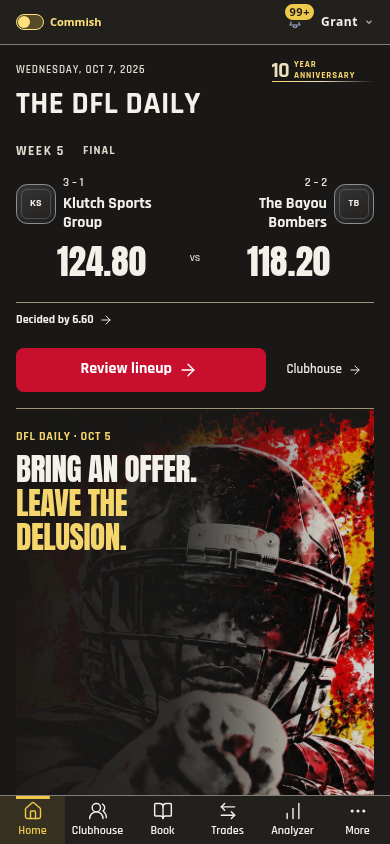
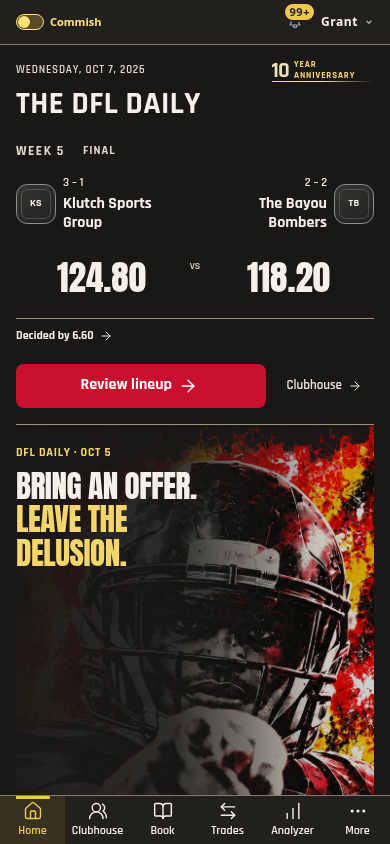
Keep score-update badges clear of Home totals

diff --git a/css/app-shared.css b/css/app-shared.css
@@ -3515,6 +3515,8 @@ html[data-archive-transition] {view-transition-name:none;}
 #home-wrap .home-team-total { position: relative; width: 100%; justify-self: stretch; grid-template-columns: minmax(0,1fr); }
 #home-wrap .home-team-total > small { grid-column: 1; grid-row: 1; }
 #home-wrap .home-team-total > :is(.gd-thermal-number,.home-projected-total) { grid-column: 1; grid-row: 2; }
+/* Keep a stable feedback lane when repeated status labels are visually hidden. */
+#home-wrap .gameday-matchup:not(.is-projected) .home-team-total { padding-top:16px; }
 #home-wrap .home-team-total > .gd-score-delta { top: -4px; bottom: auto; right: 0; font: 600 12px/1 var(--home-ui-font); }
 #home-wrap .home-game-phase[data-phase="live"]::before,
 .clubhouse-matchup-state[data-state="live"]::before {

diff --git a/css/matchup-interactions.css b/css/matchup-interactions.css
@@ -13,6 +13,8 @@
 #home-wrap .home-team-total { position: relative; width: 100%; justify-self: stretch; grid-template-columns: minmax(0,1fr); }
 #home-wrap .home-team-total > small { grid-column: 1; grid-row: 1; }
 #home-wrap .home-team-total > :is(.gd-thermal-number,.home-projected-total) { grid-column: 1; grid-row: 2; }
+/* Keep a stable feedback lane when repeated status labels are visually hidden. */
+#home-wrap .gameday-matchup:not(.is-projected) .home-team-total { padding-top:16px; }
 #home-wrap .home-team-total > .gd-score-delta { top: -4px; bottom: auto; right: 0; font: 600 12px/1 var(--home-ui-font); }
 #home-wrap .home-game-phase[data-phase="live"]::before,
 .clubhouse-matchup-state[data-state="live"]::before {

diff --git a/theme-audit.md b/theme-audit.md
@@ -615,7 +615,9 @@ Dark (`docs/home-trade-polish/`). Home now uses The DFL Daily for its masthead
 and loading announcement, leaving Clubhouse as the matchup destination. Actual
 and Final score labels remain available to accessibility and the scrolling
 scoreboard, without repeating visibly under each team. Projected labels remain
-visible. Existing type, score colors and navigation tokens are preserved.
+visible. A reserved feedback lane keeps score-change badges above the totals
+without moving the score when an update arrives. Existing type, score colors
+and navigation tokens are preserved.
 
 Trade opens with extra setup collapsed and both player pickers visible. Its
 compact player targeting row uses shared border, surface and text tokens; the

diff --git a/docs/home-trade-polish.md b/docs/home-trade-polish.md
@@ -3,7 +3,9 @@
 Home has a distinct masthead, The DFL Daily, including its loading announcement.
 Clubhouse retains its own route name. Per-team Actual/Final labels are visually
 hidden while score semantics, phase status and the collapsing scoreboard remain
-intact. Upcoming projections keep their visible Projected label.
+intact. Upcoming projections keep their visible Projected label. A stable lane
+above actual totals prevents score-update badges from obscuring the number;
+targeted checks cover both themes at 320/390/1280px and 100%/200% text.
 
 Trade starts with team/package settings collapsed. Both player targeting buttons
 and selected player chips stay outside that disclosure, before intent/results.
